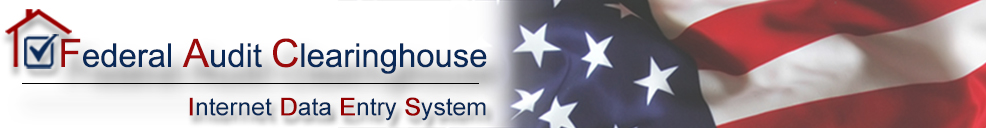
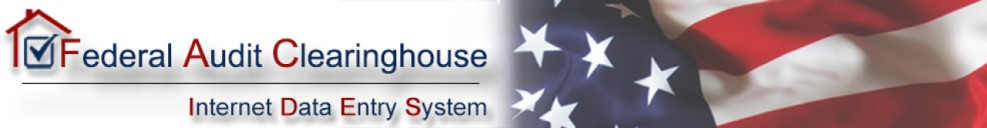
Corrected Identity issue with scaffolded assets and now working on integrating existing design

diff --git a/src/SAC.Web/wwwroot/css/site.css b/src/SAC.Web/wwwroot/css/site.css
@@ -16,3 +16,15 @@ html {
 body {
   margin-bottom: 60px;
 }
+
+
+#imgHeader {
+  
+    width: 100%;
+    height: 168px;
+    /*
+    background-size: cover !important;
+    border: 1px 1px 1px 1px !important;
+    border-color: red !important;
+        */
+}

diff --git a/src/SAC.Web/Areas/Identity/Pages/Account/Manage/ManageNavPages.cs b/src/SAC.Web/Areas/Identity/Pages/Account/Manage/ManageNavPages.cs
@@ -1,0 +1,123 @@
+// Licensed to the .NET Foundation under one or more agreements.
+// The .NET Foundation licenses this file to you under the MIT license.
+#nullable disable
+
+using System;
+using Microsoft.AspNetCore.Mvc.Rendering;
+
+namespace  SAC.Web.Areas.Identity.Pages.Account.Manage
+{
+    /// <summary>
+    ///     This API supports the ASP.NET Core Identity default UI infrastructure and is not intended to be used
+    ///     directly from your code. This API may change or be removed in future releases.
+    /// </summary>
+    public static class ManageNavPages
+    {
+        /// <summary>
+        ///     This API supports the ASP.NET Core Identity default UI infrastructure and is not intended to be used
+        ///     directly from your code. This API may change or be removed in future releases.
+        /// </summary>
+        public static string Index => "Index";
+
+        /// <summary>
+        ///     This API supports the ASP.NET Core Identity default UI infrastructure and is not intended to be used
+        ///     directly from your code. This API may change or be removed in future releases.
+        /// </summary>
+        public static string Email => "Email";
+
+        /// <summary>
+        ///     This API supports the ASP.NET Core Identity default UI infrastructure and is not intended to be used
+        ///     directly from your code. This API may change or be removed in future releases.
+        /// </summary>
+        public static string ChangePassword => "ChangePassword";
+
+        /// <summary>
+        ///     This API supports the ASP.NET Core Identity default UI infrastructure and is not intended to be used
+        ///     directly from your code. This API may change or be removed in future releases.
+        /// </summary>
+        public static string DownloadPersonalData => "DownloadPersonalData";
+
+        /// <summary>
+        ///     This API supports the ASP.NET Core Identity default UI infrastructure and is not intended to be used
+        ///     directly from your code. This API may change or be removed in future releases.
+        /// </summary>
+        public static string DeletePersonalData => "DeletePersonalData";
+
+        /// <summary>
+        ///     This API supports the ASP.NET Core Identity default UI infrastructure and is not intended to be used
+        ///     directly from your code. This API may change or be removed in future releases.
+        /// </summary>
+        public static string ExternalLogins => "ExternalLogins";
+
+        /// <summary>
+        ///     This API supports the ASP.NET Core Identity default UI infrastructure and is not intended to be used
+        ///     directly from your code. This API may change or be removed in future releases.
+        /// </summary>
+        public static string PersonalData => "PersonalData";
+
+        /// <summary>
+        ///     This API supports the ASP.NET Core Identity default UI infrastructure and is not intended to be used
+        ///     directly from your code. This API may change or be removed in future releases.
+        /// </summary>
+        public static string TwoFactorAuthentication => "TwoFactorAuthentication";
+
+        /// <summary>
+        ///     This API supports the ASP.NET Core Identity default UI infrastructure and is not intended to be used
+        ///     directly from your code. This API may change or be removed in future releases.
+        /// </summary>
+        public static string IndexNavClass(ViewContext viewContext) => PageNavClass(viewContext, Index);
+
+        /// <summary>
+        ///     This API supports the ASP.NET Core Identity default UI infrastructure and is not intended to be used
+        ///     directly from your code. This API may change or be removed in future releases.
+        /// </summary>
+        public static string EmailNavClass(ViewContext viewContext) => PageNavClass(viewContext, Email);
+
+        /// <summary>
+        ///     This API supports the ASP.NET Core Identity default UI infrastructure and is not intended to be used
+        ///     directly from your code. This API may change or be removed in future releases.
+        /// </summary>
+        public static string ChangePasswordNavClass(ViewContext viewContext) => PageNavClass(viewContext, ChangePassword);
+
+        /// <summary>
+        ///     This API supports the ASP.NET Core Identity default UI infrastructure and is not intended to be used
+        ///     directly from your code. This API may change or be removed in future releases.
+        /// </summary>
+        public static string DownloadPersonalDataNavClass(ViewContext viewContext) => PageNavClass(viewContext, DownloadPersonalData);
+
+        /// <summary>
+        ///     This API supports the ASP.NET Core Identity default UI infrastructure and is not intended to be used
+        ///     directly from your code. This API may change or be removed in future releases.
+        /// </summary>
+        public static string DeletePersonalDataNavClass(ViewContext viewContext) => PageNavClass(viewContext, DeletePersonalData);
+
+        /// <summary>
+        ///     This API supports the ASP.NET Core Identity default UI infrastructure and is not intended to be used
+        ///     directly from your code. This API may change or be removed in future releases.
+        /// </summary>
+        public static string ExternalLoginsNavClass(ViewContext viewContext) => PageNavClass(viewContext, ExternalLogins);
+
+        /// <summary>
+        ///     This API supports the ASP.NET Core Identity default UI infrastructure and is not intended to be used
+        ///     directly from your code. This API may change or be removed in future releases.
+        /// </summary>
+        public static string PersonalDataNavClass(ViewContext viewContext) => PageNavClass(viewContext, PersonalData);
+
+        /// <summary>
+        ///     This API supports the ASP.NET Core Identity default UI infrastructure and is not intended to be used
+        ///     directly from your code. This API may change or be removed in future releases.
+        /// </summary>
+        public static string TwoFactorAuthenticationNavClass(ViewContext viewContext) => PageNavClass(viewContext, TwoFactorAuthentication);
+
+        /// <summary>
+        ///     This API supports the ASP.NET Core Identity default UI infrastructure and is not intended to be used
+        ///     directly from your code. This API may change or be removed in future releases.
+        /// </summary>
+        public static string PageNavClass(ViewContext viewContext, string page)
+        {
+            var activePage = viewContext.ViewData["ActivePage"] as string
+                ?? System.IO.Path.GetFileNameWithoutExtension(viewContext.ActionDescriptor.DisplayName);
+            return string.Equals(activePage, page, StringComparison.OrdinalIgnoreCase) ? "active" : null;
+        }
+    }
+}

diff --git a/src/SAC.Web/Areas/Identity/Pages/Account/ResetPassword.cshtml.cs b/src/SAC.Web/Areas/Identity/Pages/Account/ResetPassword.cshtml.cs
@@ -1,0 +1,118 @@
+// Licensed to the .NET Foundation under one or more agreements.
+// The .NET Foundation licenses this file to you under the MIT license.
+#nullable disable
+
+using System;
+using System.ComponentModel.DataAnnotations;
+using System.Text;
+using System.Threading.Tasks;
+using Microsoft.AspNetCore.Authorization;
+using Microsoft.AspNetCore.Identity;
+using Microsoft.AspNetCore.Mvc;
+using Microsoft.AspNetCore.Mvc.RazorPages;
+using Microsoft.AspNetCore.WebUtilities;
+using SAC.Infrastructure.Identity;
+
+namespace SAC.Web.Areas.Identity.Pages.Account
+{
+    public class ResetPasswordModel : PageModel
+    {
+        private readonly UserManager<ApplicationUser> _userManager;
+
+        public ResetPasswordModel(UserManager<ApplicationUser> userManager)
+        {
+            _userManager = userManager;
+        }
+
+        /// <summary>
+        ///     This API supports the ASP.NET Core Identity default UI infrastructure and is not intended to be used
+        ///     directly from your code. This API may change or be removed in future releases.
+        /// </summary>
+        [BindProperty]
+        public InputModel Input { get; set; }
+
+        /// <summary>
+        ///     This API supports the ASP.NET Core Identity default UI infrastructure and is not intended to be used
+        ///     directly from your code. This API may change or be removed in future releases.
+        /// </summary>
+        public class InputModel
+        {
+            /// <summary>
+            ///     This API supports the ASP.NET Core Identity default UI infrastructure and is not intended to be used
+            ///     directly from your code. This API may change or be removed in future releases.
+            /// </summary>
+            [Required]
+            [EmailAddress]
+            public string Email { get; set; }
+
+            /// <summary>
+            ///     This API supports the ASP.NET Core Identity default UI infrastructure and is not intended to be used
+            ///     directly from your code. This API may change or be removed in future releases.
+            /// </summary>
+            [Required]
+            [StringLength(100, ErrorMessage = "The {0} must be at least {2} and at max {1} characters long.", MinimumLength = 6)]
+            [DataType(DataType.Password)]
+            public string Password { get; set; }
+
+            /// <summary>
+            ///     This API supports the ASP.NET Core Identity default UI infrastructure and is not intended to be used
+            ///     directly from your code. This API may change or be removed in future releases.
+            /// </summary>
+            [DataType(DataType.Password)]
+            [Display(Name = "Confirm password")]
+            [Compare("Password", ErrorMessage = "The password and confirmation password do not match.")]
+            public string ConfirmPassword { get; set; }
+
+            /// <summary>
+            ///     This API supports the ASP.NET Core Identity default UI infrastructure and is not intended to be used
+            ///     directly from your code. This API may change or be removed in future releases.
+            /// </summary>
+            [Required]
+            public string Code { get; set; }
+
+        }
+
+        public IActionResult OnGet(string code = null)
+        {
+            if (code == null)
+            {
+                return BadRequest("A code must be supplied for password reset.");
+            }
+            else
+            {
+                Input = new InputModel
+                {
+                    Code = Encoding.UTF8.GetString(WebEncoders.Base64UrlDecode(code))
+                };
+                return Page();
+            }
+        }
+
+        public async Task<IActionResult> OnPostAsync()
+        {
+            if (!ModelState.IsValid)
+            {
+                return Page();
+            }
+
+            var user = await _userManager.FindByEmailAsync(Input.Email);
+            if (user == null)
+            {
+                // Don't reveal that the user does not exist
+                return RedirectToPage("./ResetPasswordConfirmation");
+            }
+
+            var result = await _userManager.ResetPasswordAsync(user, Input.Code, Input.Password);
+            if (result.Succeeded)
+            {
+                return RedirectToPage("./ResetPasswordConfirmation");
+            }
+
+            foreach (var error in result.Errors)
+            {
+                ModelState.AddModelError(string.Empty, error.Description);
+            }
+            return Page();
+        }
+    }
+}

diff --git a/src/SAC.Web/Program.cs b/src/SAC.Web/Program.cs
@@ -4,20 +4,21 @@ using SAC.Infrastructure.Identity;
 using SAC.Infrastructure.Persistence;
 
 var builder = WebApplication.CreateBuilder(args);
+var connectionString = builder.Configuration.GetConnectionString("DefaultConnection");
 
+builder.Services.AddDbContext<ApplicationDbContext>(options =>
+    options.UseSqlite(connectionString));
 
 builder.Services.AddDefaultIdentity<ApplicationUser>(options => options.SignIn.RequireConfirmedAccount = true)
     .AddEntityFrameworkStores<ApplicationDbContext>();;
 
+
 // Add services to the container.
-var connectionString = builder.Configuration.GetConnectionString("DefaultConnection");
-builder.Services.AddDbContext<ApplicationDbContext>(options =>
-    options.UseSqlite(connectionString));
+
 
 builder.Services.AddDatabaseDeveloperPageExceptionFilter();
 
-builder.Services.AddDefaultIdentity<IdentityUser>(options => options.SignIn.RequireConfirmedAccount = true)
-    .AddEntityFrameworkStores<ApplicationDbContext>();
+
 builder.Services.AddControllersWithViews();
 
 var app = builder.Build();
